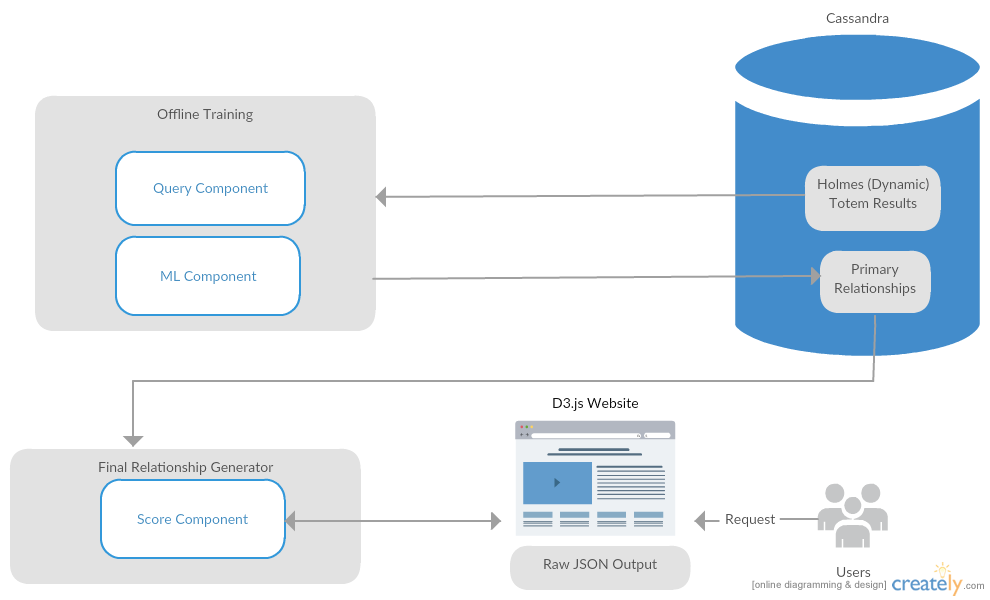
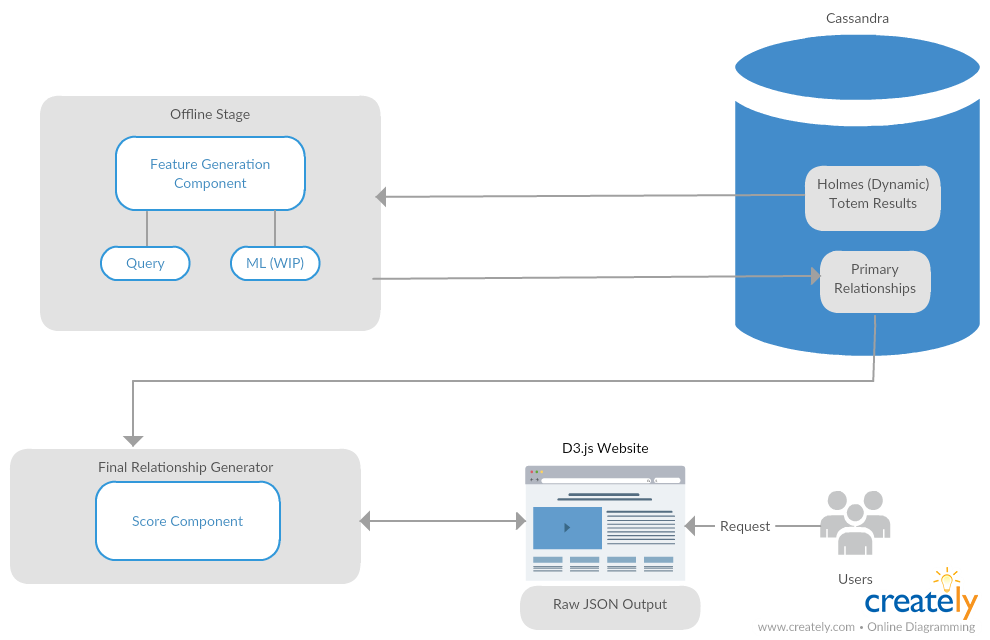
Documentation (#18)
* fixed picture name and added a script to setup storage

* quick fix for a name

* added parenthesis for the partition keys

* fix

* fix

* fixes

* updated storage

* updated storage

* small fix

* rough draft of the spark app

* cleaned up gitignore

* updated the storage

* updated the storage

* deleted av storage for primary relationships

* relationships app

* fixed app name

* changed the naming and project path

* added comments, fixed the similarity function

* upstream

* config file

* config fix

* config changes

* fixes

* added readme

* documentation

* documentation

* Update README.md

* Update README.md

* Update README.md

* Update README.md

diff --git a/README.md b/README.md
@@ -5,132 +5,181 @@
 ![GitHub Logo](/images/architecture.png)
 *Figure 1: System Architecture*
 
-###### Overview
+##### Overview
 
-The purpose of this project is to develop a system capable of automatically
-identifying and managing the relationships between malware objects (IP addresses,
-Domains, Executables, Files etc). This system will use the analytic results as
+The purpose of this project is to develop a system capable of automatically identifying and managing the relationships 
+between malware objects (IP addresses, Domains, Executables, Files etc). This system uses the analytic results as
 generated and stored by Holmes-Totem and Holmes-Totem-Dynamic. The goals are:
-
 
 1. Define the malware attributes necessary for relationship detection through querying.
 2. Implement Machine Learning algorithms for relationship detection.
 3. Implement an algorithm for aggregating and scoring the final relationships.
 4. Visualize relationships for the client.
 
-This system will perform malware relationship detection and scoring by using a range of queries and ML algorithms. We will implement and optimize some existing and new ML algorithms in order to ensure accuracy and efficiency. The whole relationship detection and rating process will go through two stages and at the end the user will receive a visual representation of the generated final relationships.
+This system performs malware relationship detection and scoring by using a range of queries and ML algorithms. 
+We implement and optimize some existing and new ML algorithms in order to ensure accuracy and efficiency. The whole 
+relationship detection and rating process goes through two stages and at the end the user receives a visual 
+representation of the generated final relationships.
 
-###### Technology
+##### Technology
 
-We will use **Apache Spark** and **Tensorflow** for writing and running the
-necessary Queries and Machine Learning algorithms. The system will use a mix of
-batch and stream processing so **Spark Streaming** and/or **Apache
-Beam** are the framework of choice. **RabbitMQ** is the AMQP library of choice to
-support the streaming functionality. The data is stored in **Apache Cassandra**.
-Since this is a work in progress, there is a good chance that some new technologies and frameworks may be added along the way. This section will be updated accordingly.
+This project uses Apache Spark 2.0 to perform its analytics and Apache Cassandra 3.10 for its backend.
 
 ## Defining Relationships
 
-The relationship detection process goes through two stages. The first stage
-(Offline Training) is
-going to generate the first level of relationships, while the second stage (Final Relationships Generate) will
-define the final relationships and their score by using the data created from
-the first stage as seed.
+The relationship detection process goes through two stages. The first stage is
+going to extract the necessary features that define relationships and establish potential relationships (primary 
+relationships). The second stage will utilize the data generated by the first stage to define the final relationships 
+and their confidence score.
 
-From a technical standpoint, the analytics of the first stage happen independently of any user requests. The Query and ML components automatically perform all queries and ML algorithms for new malware analytic results based on specific events and triggers. All of the data generated at this stage is permanently stored on Cassandra using an appropriate schema. (During the rest of the section, I may refer to the primary relationships simply as relationships for simplicity’s sake.)
+From a technical standpoint, the analytics of the first stage happen independently of any user requests. All of the data 
+generated at this stage is permanently stored in Cassandra.
 
 ###### Primary Relationships
 
-There are 4 types of artefacts in our database: IP addresses, Domains, Files, and Binary Executables. All of these types can potentially have a relationship with each other.
+There are 4 potential types of artefacts in our database: IP addresses, Domains, Files, and Binary Executables. All of these 
+types can potentially have a relationship with each other.
 
-*For example:* An executable may issue a call to a specific domain who is associated with one or more IPs, which might be in turn related to other artefacts. In this scenario we already have identified several relationships:
+*For example:* An executable may issue a call to a specific domain who is associated with one or more IPs, which might be in 
+turn related to other artefacts. In this scenario we already have identified several relationships:
 1. Executable <-> Domain
 2. Domain <-> IP
 3. (and by the transitive property of a bidirectional connection): Executable <-> IP
 
-The whole purpose of this stage of the process is to look for meaningful primary relationships between the different artefacts based on the available analytic results, and store these relationships permanently. The following graph is a high level view of the potential relationship types between artefacts.
+The whole purpose of this stage of the process is to look for meaningful primary relationships between the different 
+artefacts based on the available analytic results, and store these relationships permanently. The following graph is a high 
+level view of the potential relationship types between artefacts.
 
 ![GitHub Logo](/images/Relationship_Types.png)
 *Figure 2: High-level view of artefact relationships*
 
-The relationships between artefacts will be defined in detail by the indicators that the Querying and ML components will detect/calculate. The first step of relationships discovery is finding good indicators of relationships between the different artefacts. These indicators are extracted by processing the analytic results from Holmes Totem (Dynamic). The components responsible for performing this analytic processes are the Query and ML components.
+The relationships between artefacts are defined by a (continuously-growing) predefined set of
+features. The first step of relationships discovery is extracting these features of interest from the Totem results and 
+storing connections between artefacts based on these features.
 
 ###### Final Relationships
 
-The final relationships define how objects in the system are associated with each other. These are created by analyzing the primary relationships and determining if and how strongly objects are related. Currently, we focus on relationships among malwares, domains, and IPs.  
-The final relationships consist of direct relationships and indirect relationships. The direct relationships can be retrieved directly from primary relationships, and the indirect relationships need other objects as the intermediary to transfer relationship. We seek to identify the following:  
+The final relationships define how objects in the system are associated with each other. These are created by analyzing the 
+primary relationships and determining if and how strongly objects are related. Currently, we focus on relationships among 
+malwares, domains, and IPs.  
+The final relationships consist of direct relationships and indirect relationships. The direct relationships can be 
+retrieved directly from primary relationships, and the indirect relationships need other objects as the intermediary to 
+transfer relationship. We seek to identify the following:  
 
 (The column: Final relationship has same content to the column: Direct relationship, so they are merged into one column.)
 
- Final relationship (Direct relationship) | Indirect relationships 
+ Final relationship (Direct relationship) | Indirect relationships
   ----------------------------------------- | -------------
   Malware -> Malware | \
-  Malware -> Domain  | 1. Malware -> Malware -> IP </br>2. Malware -> IP -> Domain 
+  Malware -> Domain  | 1. Malware -> Malware -> IP </br>2. Malware -> IP -> Domain
   Malware -> IP | 1. Malware -> Malware -> IP </br> 2. Malware -> Domain -> IP  
   Domain -> Malware | 1. Domain -> Malware -> Malware </br> 2. Domain -> Domain -> Malware </br> 3. Domain -> IP -> Malware
   Domain -> Domain | 1. Domain -> Malware -> Domain </br> 2. Domain -> IP -> Domain </br> 3. Domain -> Malware -> Malware -> Domain (optional)
   Domain -> IP | 1. Domain -> Malware -> IP </br> 2. Domain -> Domain -> IP </br> 3. Domain -> IP -> IP
   IP | All IP final relationships are similar to Domain final relationships
-  
+
 *Table 1: Definitions for Final relationships*
-
-## Storage and Schema
-
-The storage schema will store the primary relationships for both the Query and the ML components. The schema should be easily and efficiently queried in order to provide stage 2 with all the necessary data with as little lag and computational effort as possible. The schema table will contain all the relationship_types and relationship_values generated by the Query and ML components. The relationship_types correspond to the ones that can be seen in Figure 2. The possible relationship_values can be seen in Table 1. Currently, Table 1 only includes potential relationship data based on the information provided by the Query Component. The table will be updated as the components are developed.
-
-The table schema developed in this stage should satisfy 2 main queries:
-
-1. **Q1:** Give me all relationships for obj_id
-2. **Q2:** Give me all objects that subscribe to relationship_value
-3. (**Q3:** Give me all objects that subscribe to relationship_type)
-
-![GitHub Logo](/images/schema.png)
-
-*Figure 3: Table View*
-
-The picture above represents the two main tables that should satisfy the queries from Stage 2.
-The original base table easily satisfies Q1. The table created through the MV can satisfy Q2.
-Even Q3 can be easily addressed with a slightly different MV.
-
-The relationship values for each primary relationship can be either direct values or references unique identifiers that can be used to query lookup tables for additional details on the relationship value. Lookup tables are generated for a specific subset of relationship values.
 
 
 ## Implementation
 
-#### Offline Search and Training
+### Offline Stage
 
-###### Query Component
+#### Knowledge Base Generation
 
+The data we use is provided by the Holmes-Totem and Holmes-Totem-Dynamic services.
+The service results contain a lot of data, some of which is not necessary for the routines of
+this service to be carried out. As a result, we first create a Knowledge Base table which
+contains every feature of interest for each object we are analyzing. The creation of
+this intermediary table improves query time and forgoes the need for expensive parsing
+and searching for every element in the database. The Knowledge Base entries have the following format:
 
-This component will look for atomic indicators of relationships. Atomic indicators are either identical values that can be shared by artefacts’ analytic results or calculated values that are used to provide some measure of similarity between artefacts. The Query component will generate the following relationship_types and values. These primary relationships will also have an assigned weight that can be used by the second stage of the process to calculate the final relationships.
+```
+analytics_knowledge_base
+  - object_id text,
+  - feature_type text,
+  - feature_value blob,
+  - timestamp timeuuid
+ ```
 
- (relationship_type, service, relationship_value)  | weight_definition
- ------------------------------------------------- | -----------------
- (imphash_similar_to, PEInfo, imphash)  |   
- (pehash_similar_to, PEInfo, pehash) |  
- (signed_by, PEInfo, signature) |  
- (communicated_with_ip, CUCKOO, ip) |  
- (communicated_with_dom, CUCKOO, domain) |  
- (related_to_ip, DNSMeta, ip) |  
- (resolves_to_ip, DNSMeta, A Record )  |  
- (resolves_to_ip, DNSMeta, AAAA Record)  |  
- (related_to, DNSMeta, metadata)  |  
- (av_similar_to, VirusTotal, signature_similarity) |  
- (yara_similar_to, YARA, complex_AV_match) |  
+The features of interest for the analysis are predefined by the analyst and subject
+to future extensions. So far, our system uses the following features as indicators
+of relationships:
 
-*Table 2: Definitions for primary relationships*
+ feature_type  | from service
+ ------------- | -------------
+ imphash  | PEInfo
+ pehash | PEInfo
+ binary_signature | PEInfo
+ domain_requests | CUCKOO
+ yara_rules | Yara  
 
-###### ML Component
+*Table 2: Definitions for feature types*
 
-This component will utilize ML algorithms to train models based on a labeled dataset and then assign every new unknown incoming artefact (depending on the type of artefact) to one of the trained malicious clusters/classes.
+The features themselves are saved as well but before storage they are compressed
+with gzip, hence the blob type. The de/compression methods we use were slightly adapted
+from the following [repository](https://gist.github.com/owainlewis/1e7d1e68a6818ee4d50e).
+The compression method in this repository is very fast, lightweight and incurs little
+to no speed penalties based on our testing.
+
+The routine for generating the Knowledge
+Base is a batch routine that receives a list of object IDs to extract and store all
+the relevant features. This routine can be initiated whenever the user wants to populate the
+table with new entries. Tests on our servers have proved the routine to be fairly
+efficient:
+
+```
+100 hashes -> 7s
+1,000 hashes -> 7s
+10,000 hashes -> 23s
+```
+
+#### Primary Relationships Generation
+
+Primary Relationships are initial aggregations of the Knowledge Base data in order
+to generate and store connections between objects based on their feature values.
+More concretely, primary relationships store for each and every object in the database,
+a list of identifiers for other objects with which they share a feature similarity of sorts.
+The storage for Primary Relationships was inspired in part by [TitanDB]("https://www.slideshare.net/knowfrominfo/titan-big-graph-data-with-cassandra"). For each feature type, the primary relationships generation routine looks for matches, assigns
+a weight to each match, and stores the result as Json array:
+
+```
+{
+  {"sha256":<text>, "weight": <Double>},
+  {"sha256":<text>, "weight": <Double>},
+  ...
+}
+```
+The weights for these primary relationships are defined depending on the feature type. For
+ example, features like `imphash`, `pehash` and `binary_signature` are
+atomic values. For an exact same match for `imphash` and `pehash`, we assign the
+weight of 0.5, whereas an exact match for `binary_signature` we assign 1.0 . In a way,
+these weights are arbitrary values from an analyst. After extensive statistical analysis
+as well as
+[literature](https://www.usenix.org/legacy/event/leet09/tech/full_papers/wicherski/wicherski_ht
+ml/)
+[research](https://www.fireeye.com/blog/threat-research/2014/01/tracking-malware-import-hashing
+.html) we have found that objects that share these hashes have a considerable chance of being
+related one way or another. We chose to only look for exact matches and not cluster
+based on hashes. We find that for Big Data, clustering based on the hash can create a lot
+of unnecessary noise for the final relationships. For features such as `domain_requests`
+and `yara_rules`, we use [Jaccard Similarity](https://en.wikipedia.org/wiki/Jaccard_index) to
+calculate the weight. These rules for weight definition are by no means perfect or
+ideal and future work can be done for more detailed scoring methods for services such as Yara.
+
+### Final Relationships Stage
 
 #### Final Relationships Score Generator
 
 ###### Direct relationship score algorithm
 
-The direct relationship score algorithm gives the similarity score between the object queried and the related object. 
-The Figure 4 below shows the design of this algorithm. The input: rel\_type scores are extracted from the primary relationship table. An algorithm tuning the weights of each score will be shown in the next paragraph. The final relationship score is the sum of (weight × rel\_type score).  
-This algorithm is also used to tune the weights of each score. The loss function is the sum of these final scores when the queried objects are in the different classifcations and their final score above a threshold. Finally, minimizing the loss measure by gradient descent to get proper weights.
+The direct relationship score algorithm gives the similarity score between the object queried and the related object.
+The Figure 4 below shows the design of this algorithm. The input: rel\_type scores are extracted from the primary 
+relationship table. An algorithm tuning the weights of each score will be shown in the next paragraph. The final 
+relationship score is the sum of (weight × rel\_type score).  
+This algorithm is also used to tune the weights of each score. The loss function is the sum of these final scores when the 
+queried objects are in the different classifcations and their final score above a threshold. Finally, minimizing the loss 
+measure by gradient descent to get proper weights.
 
 ![GitHub Logo](/images/direct_relationship_score.png)
 
@@ -139,12 +188,37 @@ This algorithm is also used to tune the weights of each score. The loss function
 ###### Indirect relationship score algorithm(WIP)
 
 The indirect relationship score algorithm considers two parts and is shown in Figure 5.  
-1). To a certain indirect relationship, it is consisted by direct relationships. We multiply the scores of direct relationships as indirect relationship score.  
-2). To related objects, the kind of relationships (including direct relationships and indirect relationships ) is one or more. We use the sigmoid function to the sum of these relationship scores.   
+1). To a certain indirect relationship, it is consisted by direct relationships. We multiply the scores of direct 
+relationships as indirect relationship score.  
+2). To related objects, the kind of relationships (including direct relationships and indirect relationships ) is one or 
+more. We use the sigmoid function to the sum of these relationship scores.   
 
 ![GitHub Logo](/images/indirect_relationship_score.png)
 
 *Figure 5: The Schematic diagram of indirect relationship score algorithm*
+
+## Storage
+
+### Staging Phase
+
+The following are the table schematics as generated in Cassandra.
+
+<p align="center">
+  <img src="/images/storage.png" height="330" width="400">
+</p>
+*Figure 3: Table View*
+
+The table descriptions are as follows:
+
+`analytics_knowledge_base` contains the Knowledge Base as described in the previous
+section.
+
+`analytics_mv_knowledge_base_by_feature` is a materialized view of `analytics_knowledge_base`
+with feature_type as partition key. This table is used to enable efficient querying in
+subroutines.
+
+`analytics_primary_relationships` is the table where primary relationships are stored,
+one entry per object.
 
 ## Visualization (WIP)
 
@@ -154,7 +228,7 @@ The indirect relationship score algorithm considers two parts and is shown in Fi
 
 Query page provides the searching for hash, domain, and IP and returns relationship page.
 
-###### Relationship Page 
+###### Relationship Page
 
 Relationship page is designed by D3.js and shows the relationship result.
 
